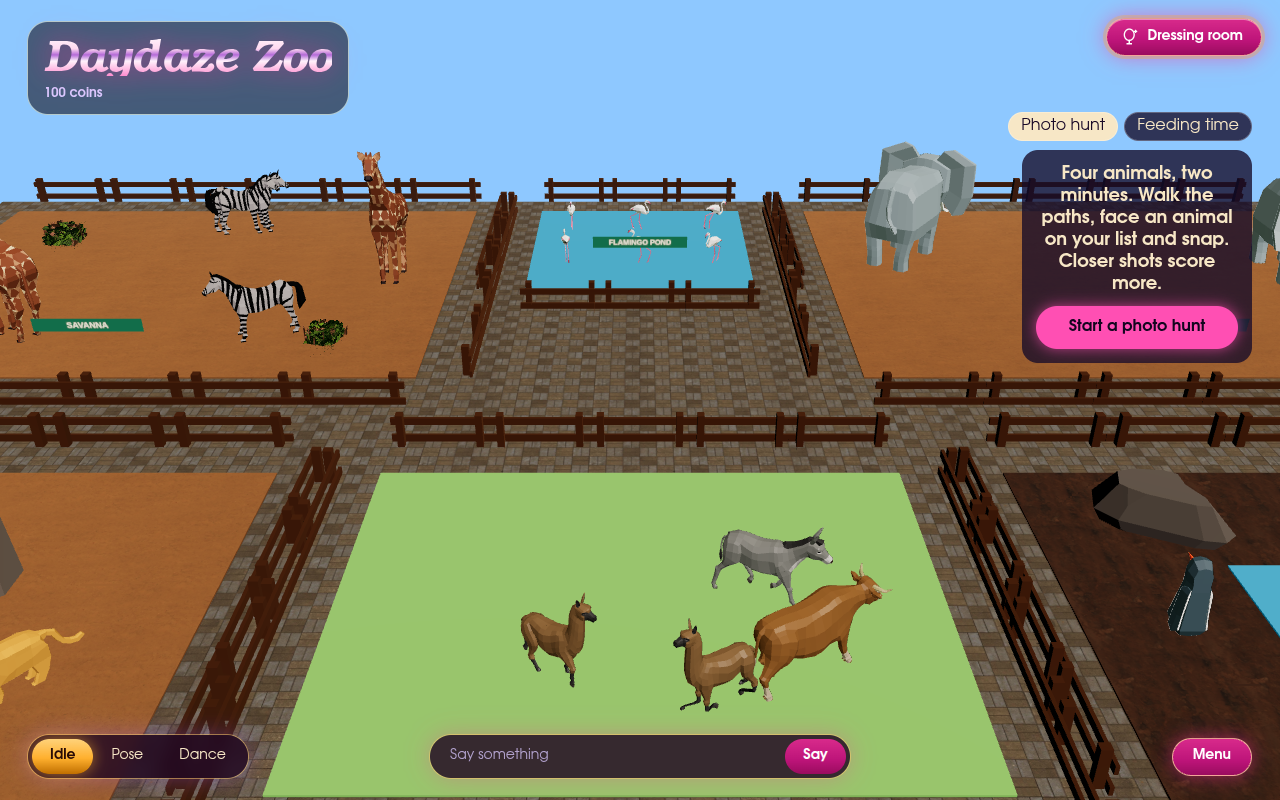
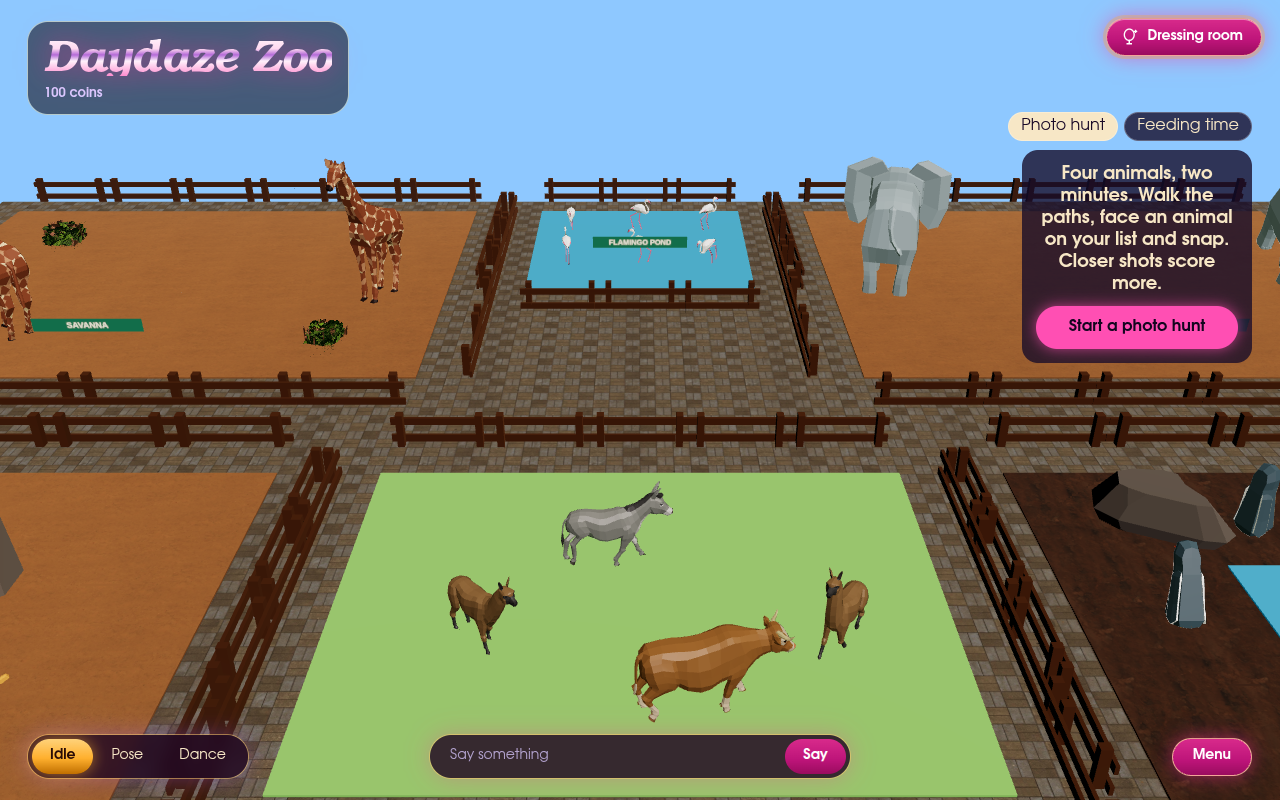
fix(creatures): ground animated models by their idle pose, not the bind pose

diff --git a/src/client/creatures/Creature.tsx b/src/client/creatures/Creature.tsx
@@ -77,11 +77,25 @@ export function Creature({
       // skinned bounds come from the bind pose; the walk leaves them
       o.frustumCulled = false;
     });
-    const { k, shift } = fit(root, LENGTH[kind]);
     const mixer = new THREE.AnimationMixer(root);
     const actions = new Map<string, THREE.AnimationAction>();
     for (const clip of gltf.animations)
       actions.set(clip.name, mixer.clipAction(clip));
+    // measure the model standing in its idle pose, not the bind pose (the
+    // bind pose can hold legs spread or raised, which floats the feet)
+    const idle = actions.get("idle");
+    if (idle) {
+      idle.play();
+      mixer.update(0);
+      root.traverse((o) => {
+        if (o instanceof THREE.SkinnedMesh) {
+          o.skeleton.update();
+          o.computeBoundingBox();
+        }
+      });
+    }
+    const { k, shift } = fit(root, LENGTH[kind]);
+    mixer.stopAllAction();
     return { root, k, shift, mixer, actions };
   }, [gltf, kind]);
   useEffect(() => () => void rig.mixer.stopAllAction(), [rig]);
